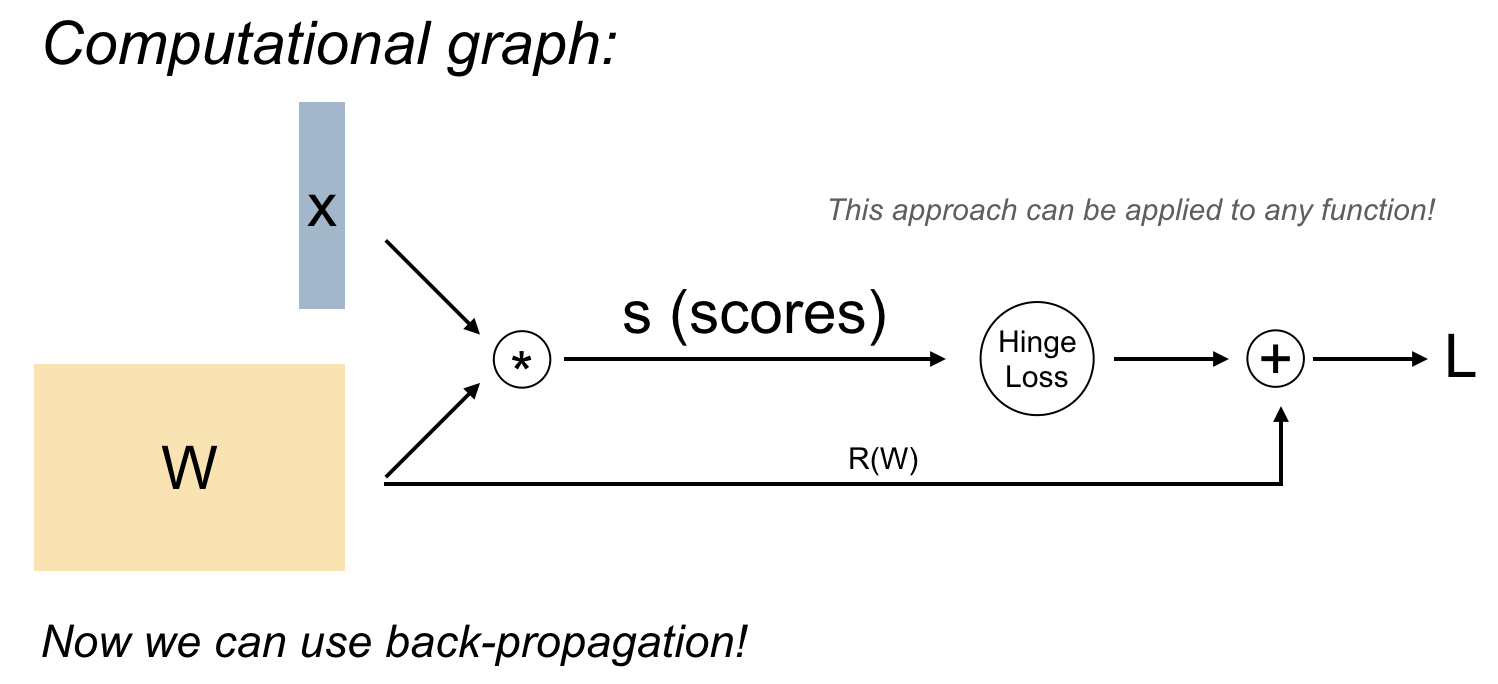
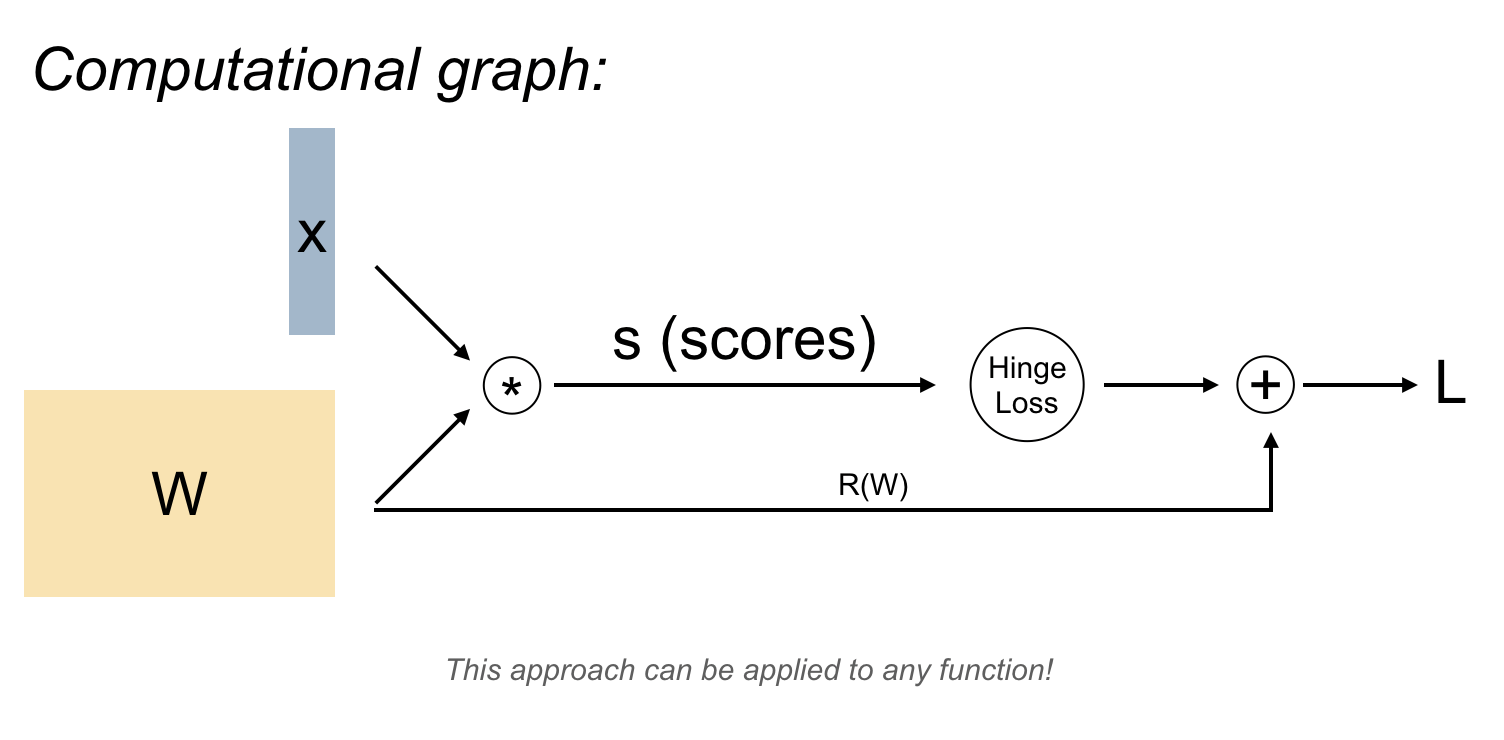
image fix; other fixes lecture 4

diff --git a/cs231n/CS231n-lecture4.md b/cs231n/CS231n-lecture4.md
@@ -11,9 +11,11 @@
     - numerical gradient: slow, approximation, easy to write
     - analytical gradient: fast, exact, ***but*** *error-prone*
 
-    - ***So***: derive the analytical gradient, check the code with the numerical gradient
+    - *So*: derive the analytical gradient, check the code with the numerical gradient
 
 **Today**: compute the analytical gradient for arbitrarily complex functions using computational graphs framework
 
 $f = W_x$ ; $L_i = \sum_{j≠y_i}max(0,s_j - s_{y_i} + 1)$
 <img src="./images/4-compgraph.png" width="600"/>
+
+Now we can use back-propagation!
